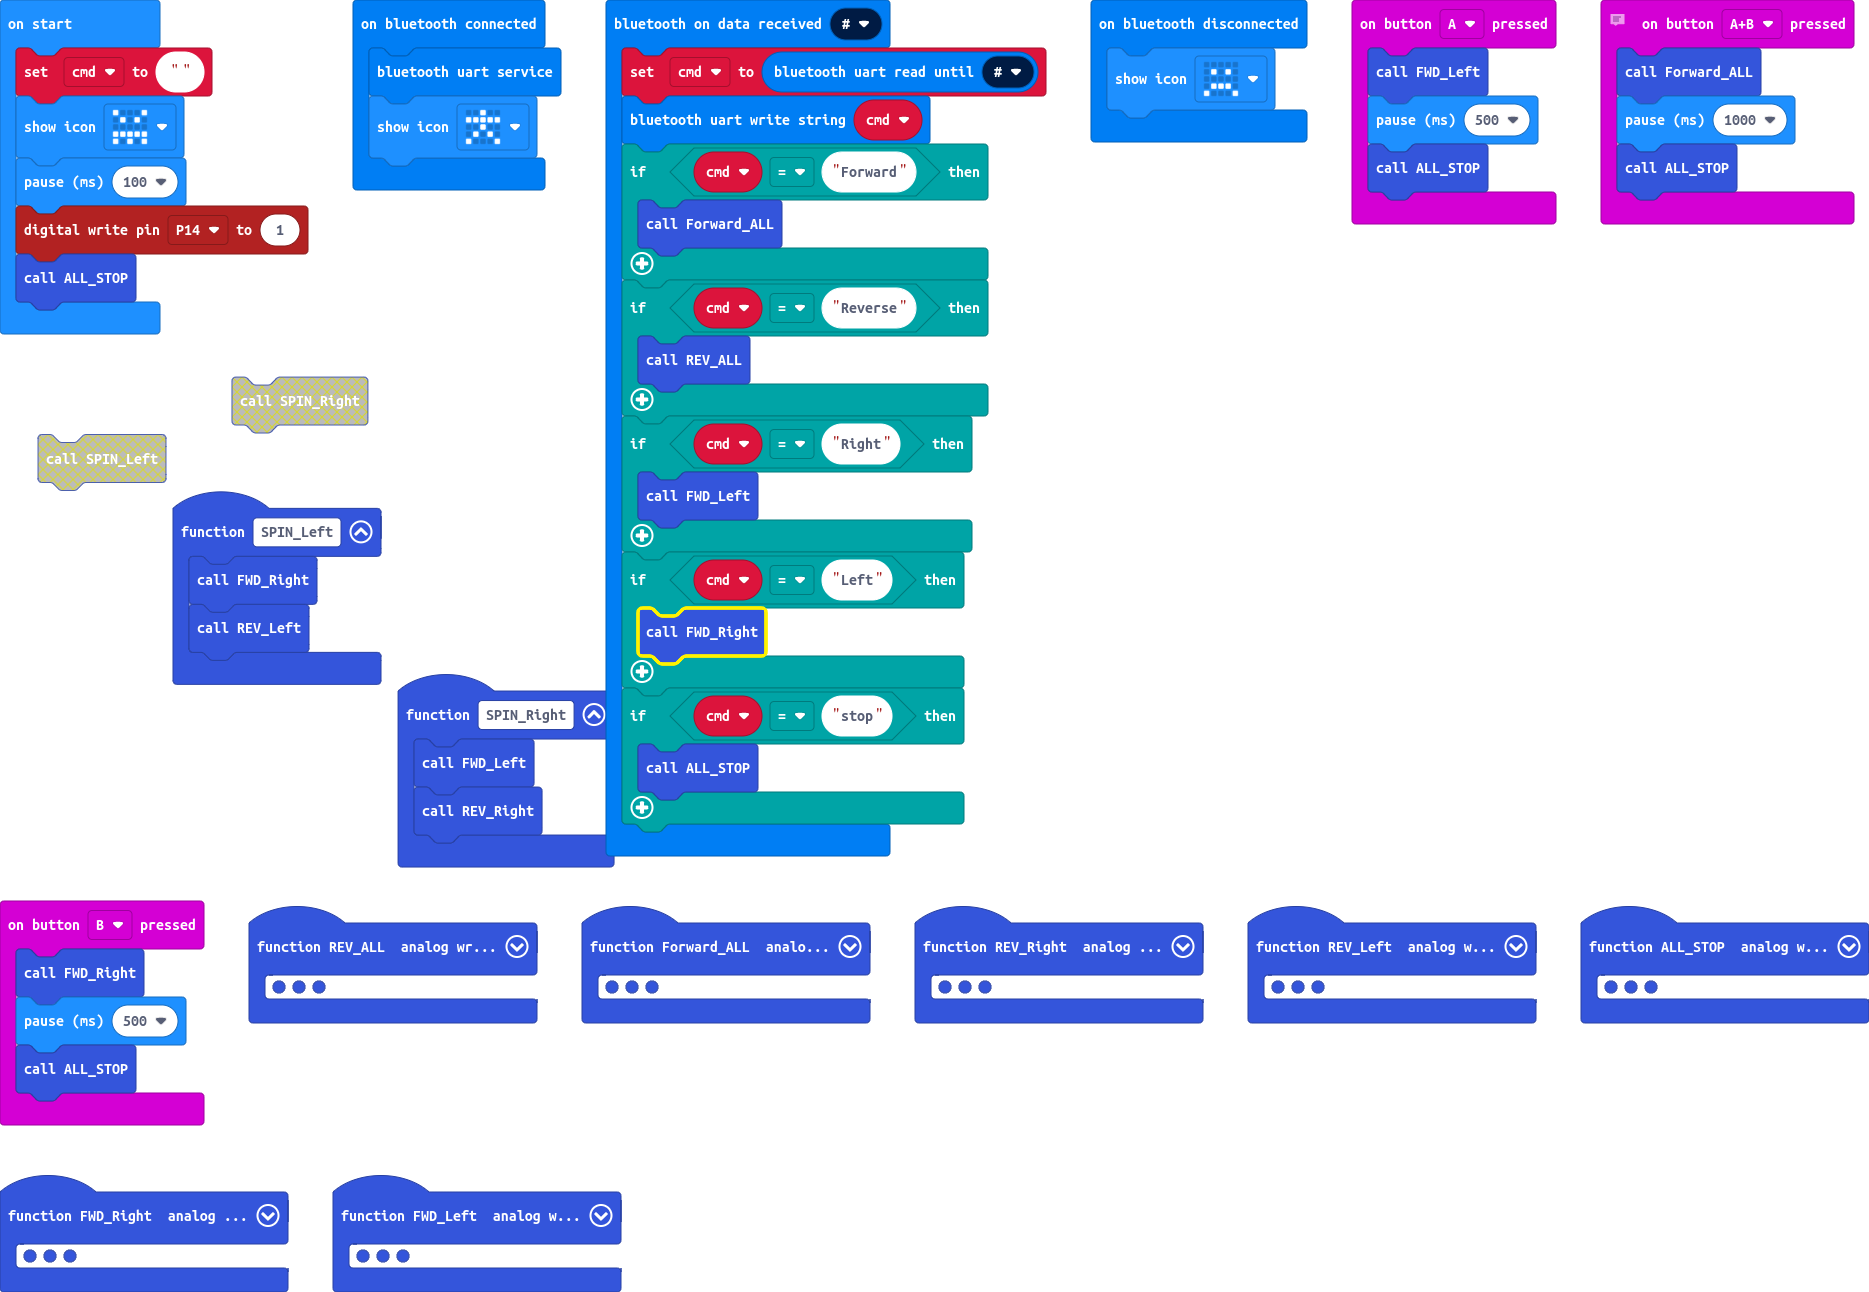
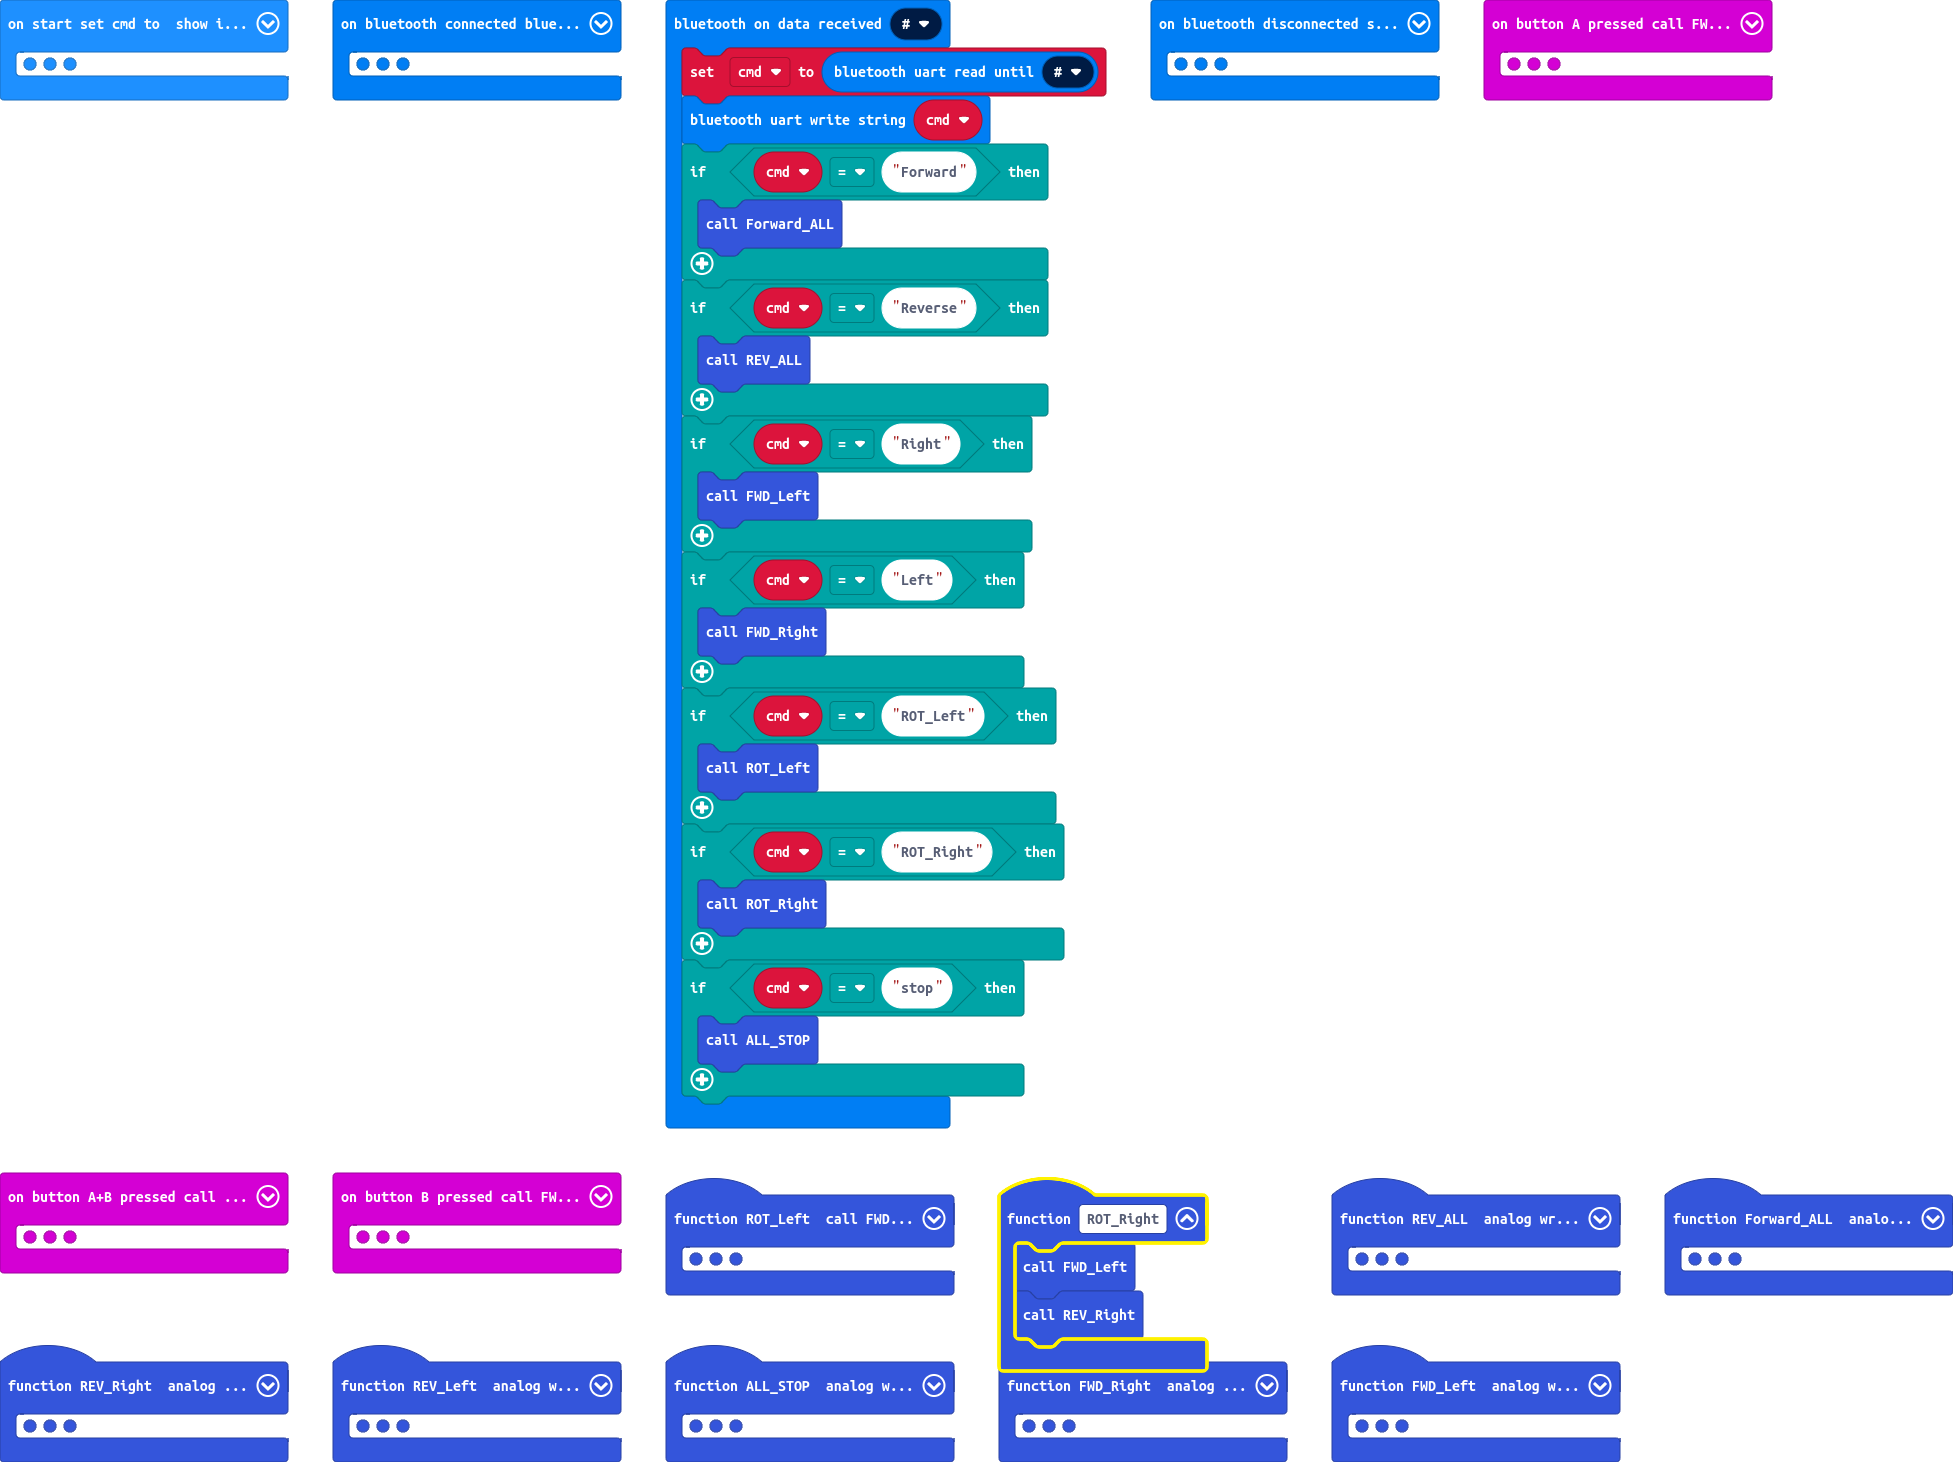
basic app now works

diff --git a/main.ts b/main.ts
@@ -11,64 +11,17 @@ function REV_Left () {
     pins.digitalWritePin(DigitalPin.P12, 1)
     pins.digitalWritePin(DigitalPin.P13, 0)
 }
-bluetooth.onBluetoothConnected(function () {
-    bluetooth.startUartService()
-    basic.showIcon(IconNames.StickFigure)
-})
 bluetooth.onBluetoothDisconnected(function () {
     basic.showIcon(IconNames.Sad)
 })
-input.onButtonPressed(Button.A, function () {
-    FWD_Left()
-    basic.pause(500)
-    ALL_STOP()
-})
-function SPIN_Right () {
-    FWD_Left()
-    REV_Right()
-}
-function ALL_STOP () {
-    pins.analogWritePin(AnalogPin.P1, 0)
-    pins.analogWritePin(AnalogPin.P2, 0)
-}
-function REV_Right () {
-    pins.analogWritePin(AnalogPin.P2, 150)
-    pins.digitalWritePin(DigitalPin.P15, 1)
-    pins.digitalWritePin(DigitalPin.P16, 0)
-}
-function FWD_Right () {
-    pins.analogWritePin(AnalogPin.P2, 150)
-    pins.digitalWritePin(DigitalPin.P16, 1)
-    pins.digitalWritePin(DigitalPin.P15, 0)
-}
-function SPIN_Left () {
+function ROT_Left () {
     FWD_Right()
     REV_Left()
 }
-function FWD_Left () {
-    pins.analogWritePin(AnalogPin.P1, 150)
-    pins.digitalWritePin(DigitalPin.P13, 1)
-    pins.digitalWritePin(DigitalPin.P12, 0)
+function ROT_Right () {
+    FWD_Left()
+    REV_Right()
 }
-bluetooth.onUartDataReceived(serial.delimiters(Delimiters.Hash), function () {
-    cmd = bluetooth.uartReadUntil(serial.delimiters(Delimiters.Hash))
-    bluetooth.uartWriteString(cmd)
-    if (cmd == "Forward") {
-        Forward_ALL()
-    }
-    if (cmd == "Reverse") {
-        REV_ALL()
-    }
-    if (cmd == "Right") {
-        FWD_Left()
-    }
-    if (cmd == "Left") {
-        FWD_Right()
-    }
-    if (cmd == "stop") {
-        ALL_STOP()
-    }
-})
 // PIN14 = Controller on(1) Off (0)
 // 
 // Motor1 forward:
@@ -107,6 +60,55 @@ input.onButtonPressed(Button.AB, function () {
     basic.pause(1000)
     ALL_STOP()
 })
+input.onButtonPressed(Button.A, function () {
+    FWD_Left()
+    basic.pause(500)
+    ALL_STOP()
+})
+function ALL_STOP () {
+    pins.analogWritePin(AnalogPin.P1, 0)
+    pins.analogWritePin(AnalogPin.P2, 0)
+}
+function REV_Right () {
+    pins.analogWritePin(AnalogPin.P2, 150)
+    pins.digitalWritePin(DigitalPin.P15, 1)
+    pins.digitalWritePin(DigitalPin.P16, 0)
+}
+function FWD_Right () {
+    pins.analogWritePin(AnalogPin.P2, 150)
+    pins.digitalWritePin(DigitalPin.P16, 1)
+    pins.digitalWritePin(DigitalPin.P15, 0)
+}
+function FWD_Left () {
+    pins.analogWritePin(AnalogPin.P1, 150)
+    pins.digitalWritePin(DigitalPin.P13, 1)
+    pins.digitalWritePin(DigitalPin.P12, 0)
+}
+bluetooth.onUartDataReceived(serial.delimiters(Delimiters.Hash), function () {
+    cmd = bluetooth.uartReadUntil(serial.delimiters(Delimiters.Hash))
+    bluetooth.uartWriteString(cmd)
+    if (cmd == "Forward") {
+        Forward_ALL()
+    }
+    if (cmd == "Reverse") {
+        REV_ALL()
+    }
+    if (cmd == "Right") {
+        FWD_Left()
+    }
+    if (cmd == "Left") {
+        FWD_Right()
+    }
+    if (cmd == "ROT_Left") {
+        ROT_Left()
+    }
+    if (cmd == "ROT_Right") {
+        ROT_Right()
+    }
+    if (cmd == "stop") {
+        ALL_STOP()
+    }
+})
 input.onButtonPressed(Button.B, function () {
     FWD_Right()
     basic.pause(500)
@@ -120,6 +122,10 @@ function Forward_ALL () {
     pins.digitalWritePin(DigitalPin.P13, 1)
     pins.digitalWritePin(DigitalPin.P12, 0)
 }
+bluetooth.onBluetoothConnected(function () {
+    bluetooth.startUartService()
+    basic.showIcon(IconNames.StickFigure)
+})
 let cmd = ""
 cmd = ""
 basic.showIcon(IconNames.Angry)
